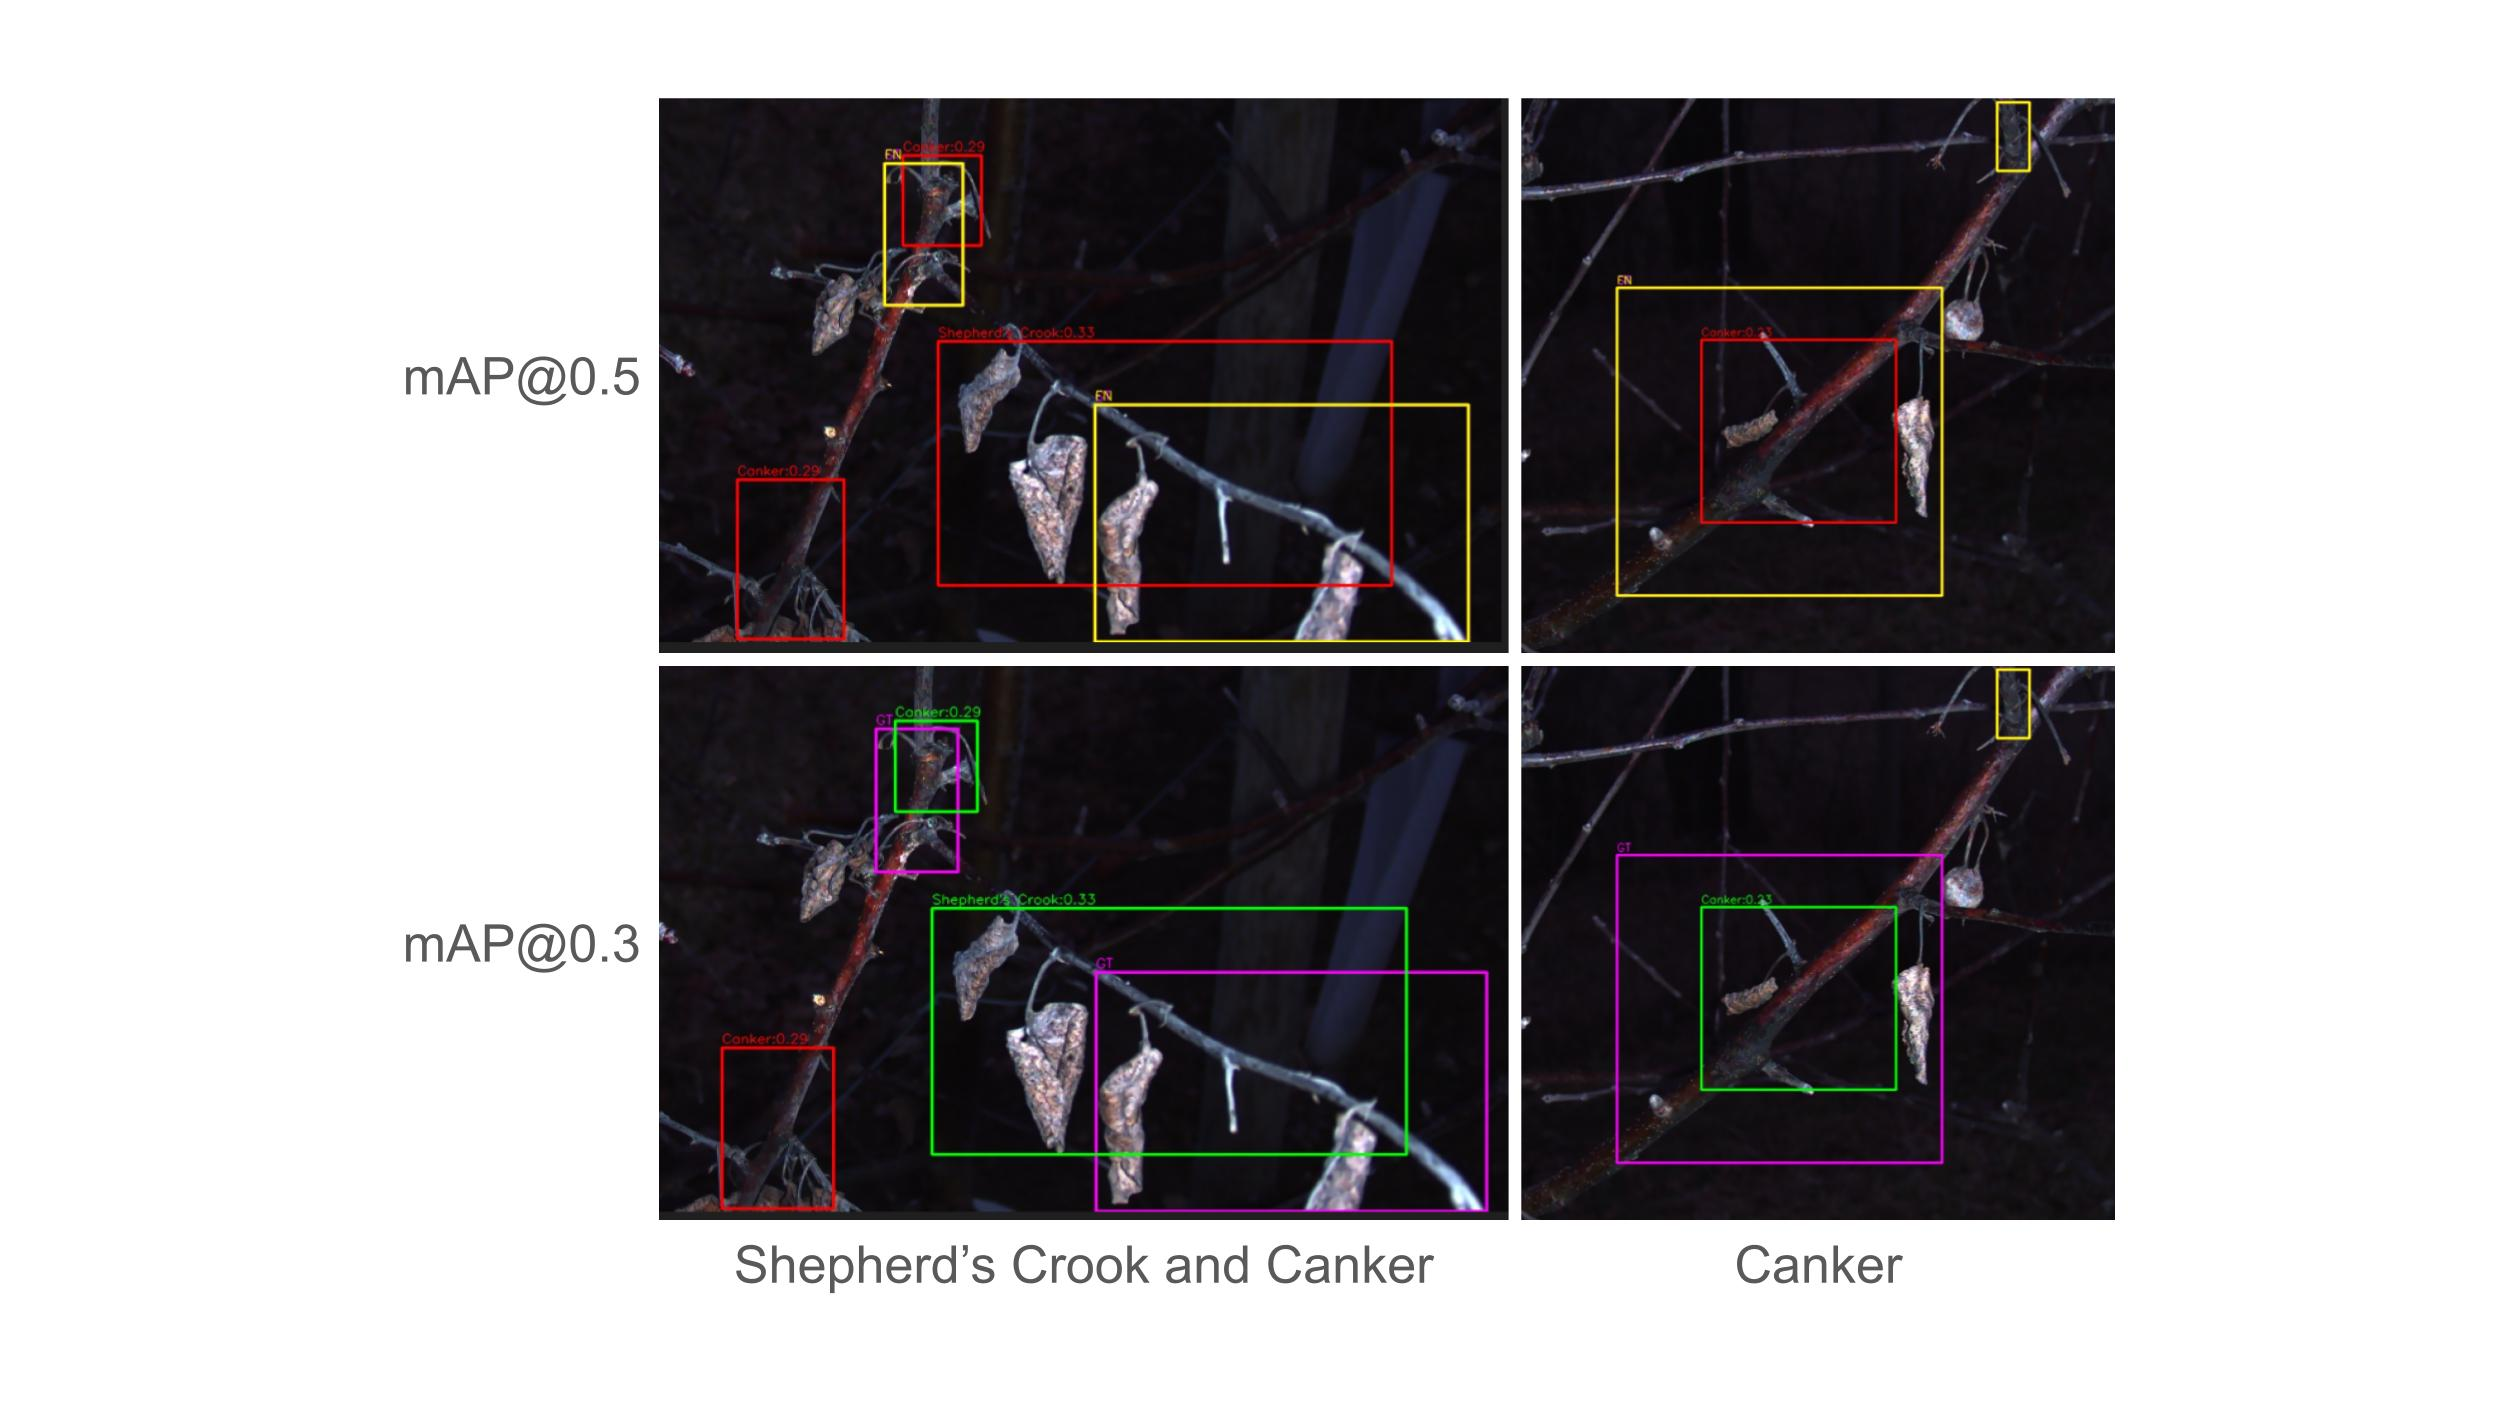
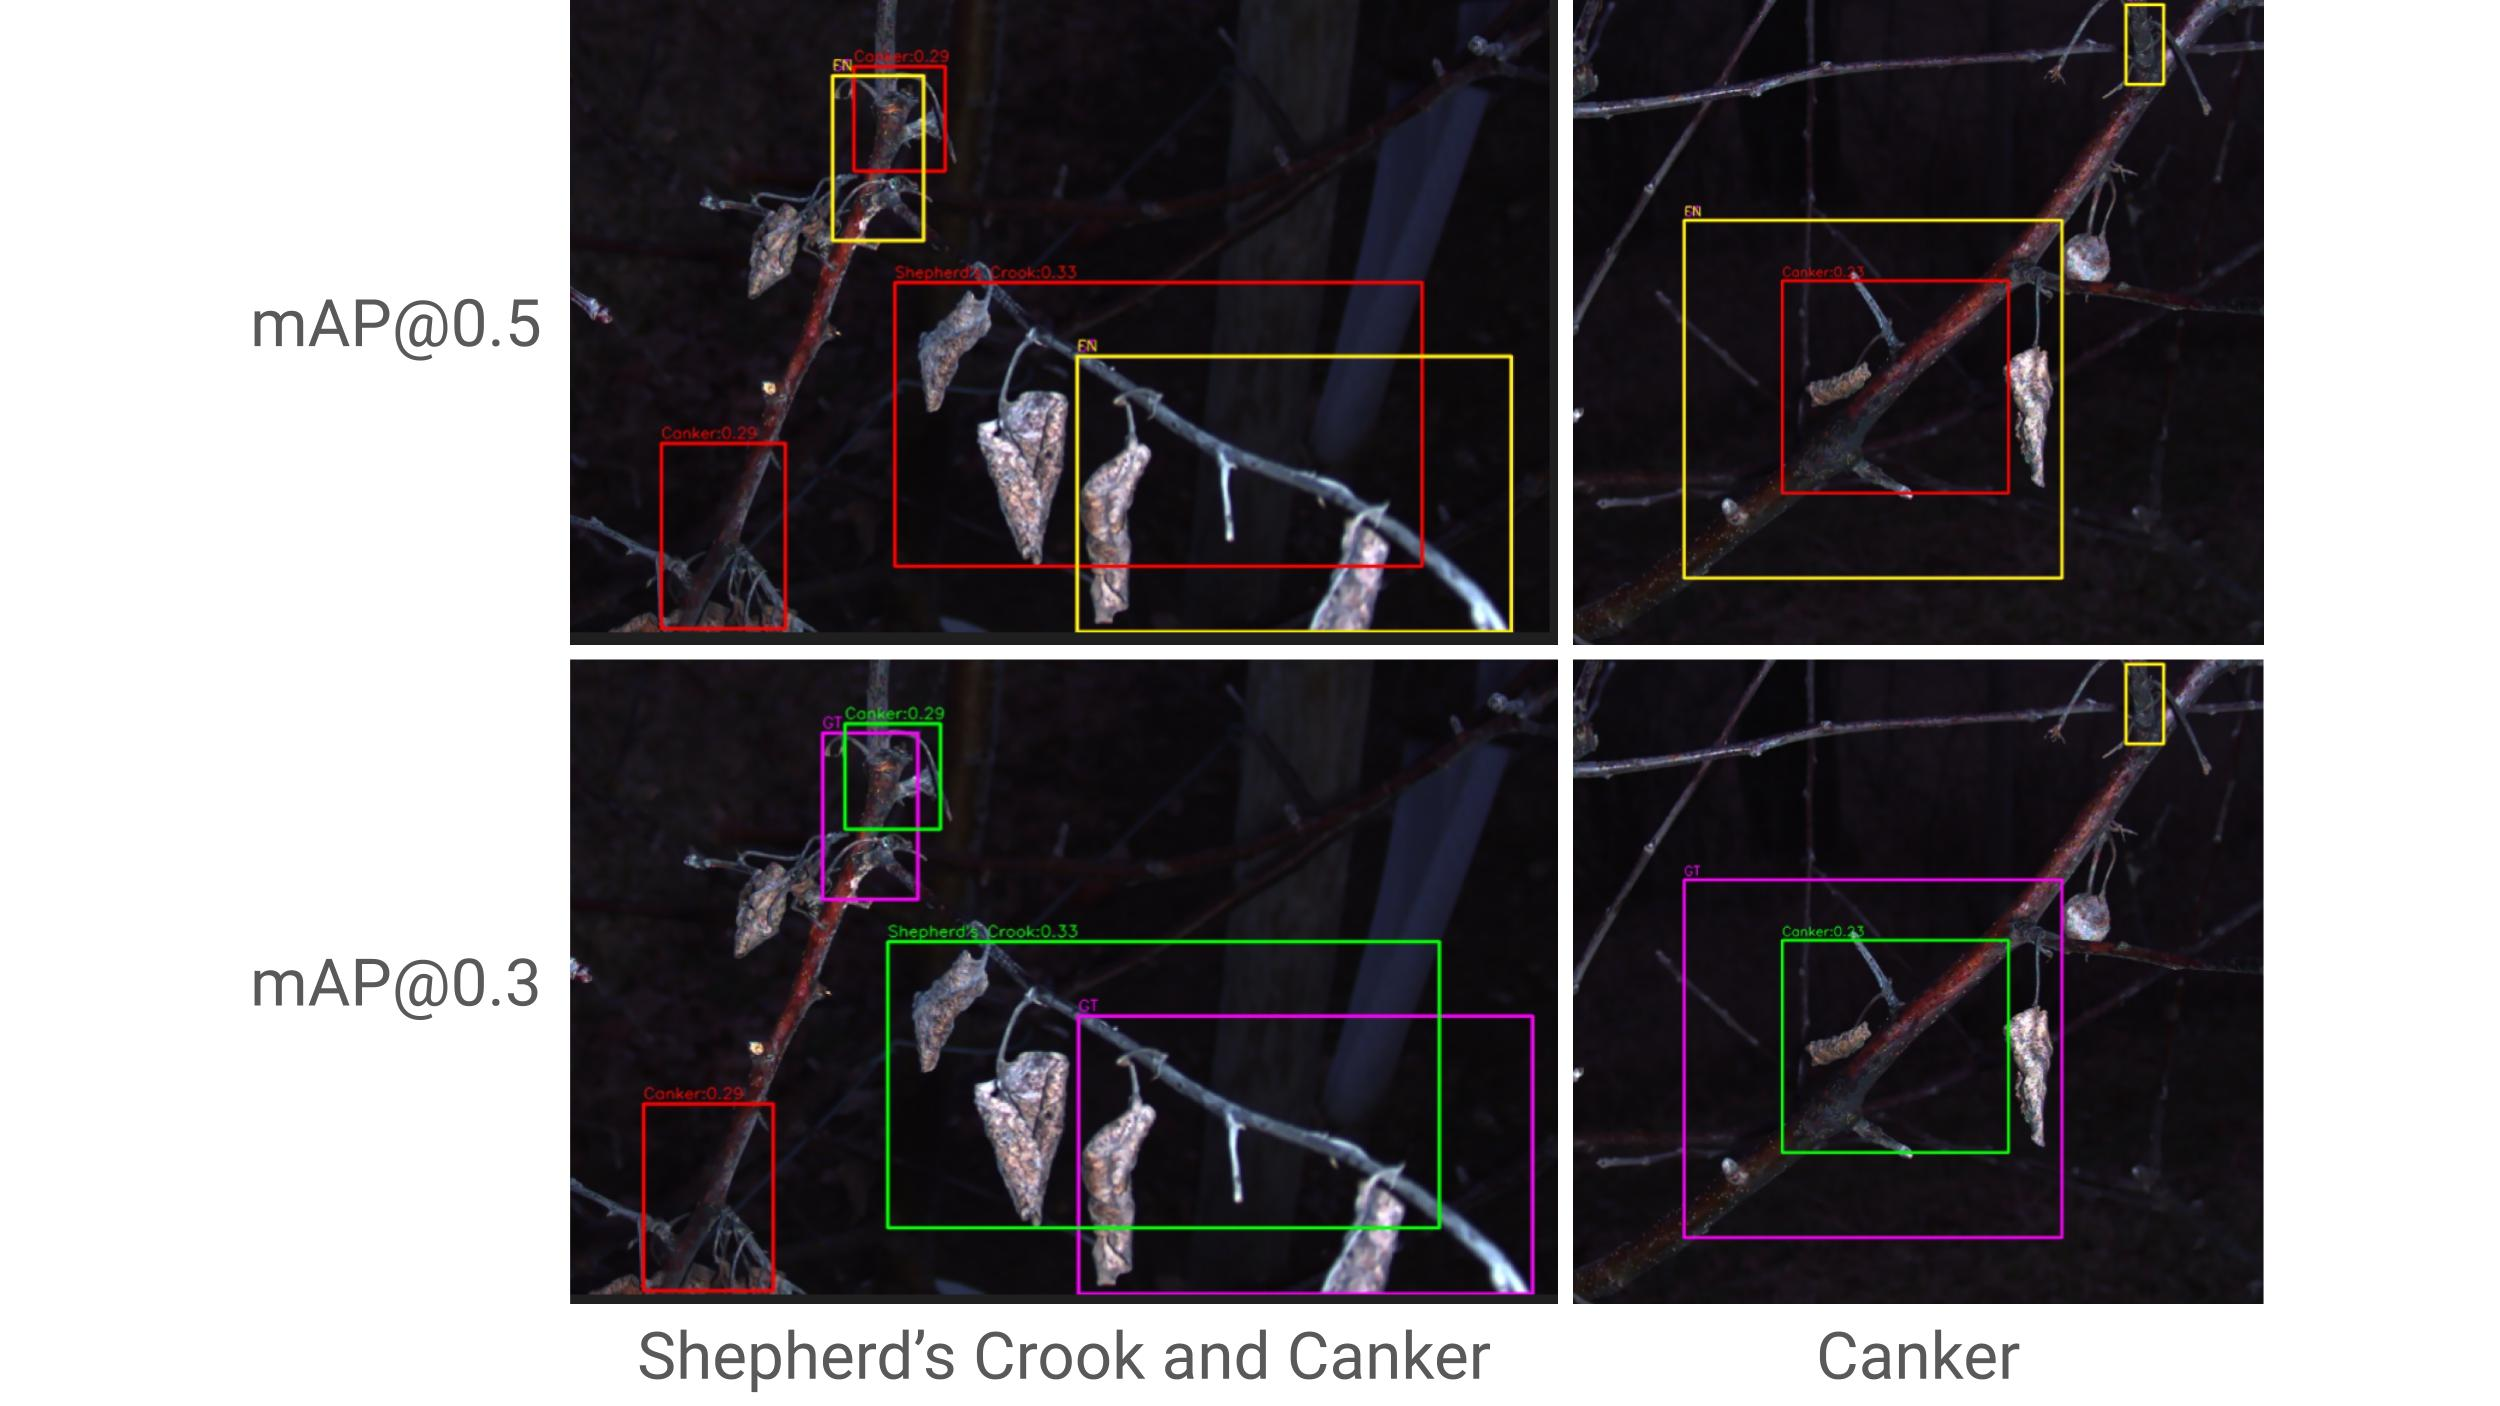
Updated figs text sizes and fonts.

diff --git a/thesis-dataset.tex b/thesis-dataset.tex
@@ -37,7 +37,7 @@ majority of dataset collection.
 
 \begin{figure}[h]
     \centering
-    \includegraphics[width=0.85\linewidth, trim={0 100pt 0 100pt},
+    \includegraphics[width=0.95\linewidth, trim={0 100pt 0 100pt},
         clip]{figs/camera_rig_exploded.jpg}
     \caption{Exploded view of the multi-modal camera rig showing
              the placement and mounting of each sensor.}
@@ -205,7 +205,7 @@ required for symptom detection is unnecessary.
 
 \begin{figure}[h]
     \centering
-    \includegraphics[width=0.85\linewidth, trim={0 100pt 0 100pt}, clip]{figs/all_img_comparison.jpg}
+    \includegraphics[width=0.95\linewidth, trim={0 100pt 0 100pt}, clip]{figs/all_img_comparison.jpg}
     \caption{The same fire blight canker viewed by each camera on the
              rig, at nearly the same position.
              \textit{From left to right:} the flash stereo RGB camera
@@ -274,14 +274,19 @@ and NIR frames.
 
 \begin{figure}[h]
     \centering
-    \includegraphics[width=0.85\linewidth, trim={0 98pt 0 98pt},
-        clip]{figs/v2_camera_rig.jpg}
-    \caption{The revised, front-loaded camera rig design, shown as a
-             CAD model (left) and the assembled hardware (right).
-             Sliding mounts lock each camera in place for quick
-             swaps in the field, and the inter-camera spacing is
-             reduced relative to the initial design to increase
-             field-of-view overlap.}
+    \includegraphics[width=0.95\linewidth]{figs/v1_v2_camera_rig.jpg}
+    \caption{The initial, back-loaded camera rig design (Version 1,
+             top) and the revised, front-loaded design (Version 2,
+             bottom), each shown as an isometric CAD model, a
+             side-profile CAD model, and the assembled hardware.
+             Between Version 1 and Version 2, the flash stereo Firefly
+             (gold, top, with its two imagers and central flash) and
+             Ximea NIR (blue) mounts were reworked for front-loading
+             and sliding locks were added for quick camera swaps in
+             the field, and the spacing between the Firefly and Ximea
+             cameras was reduced to increase field-of-view overlap;
+             the ZED2i (black, bottom) remained mounted beneath both
+             versions.}
     \label{figRigEvolution}
 \end{figure}
 
@@ -356,8 +361,7 @@ their content can be checked at a glance.
 
 \begin{figure}[h]
     \centering
-    \includegraphics[width=0.85\linewidth, trim={111pt 0 111pt 0},
-        clip]{figs/v3_gui.jpg}
+    \includegraphics[width=0.95\linewidth]{figs/v3_gui.png}
     \caption{The final handheld capture interface, with large START
              and RECORD buttons, a readable status log, a slider
              column for flash duration, frame rate, Firefly
@@ -466,6 +470,25 @@ time.
     }
 \end{table}
 
+\begin{figure}[h]
+    \centering
+    \includegraphics[width=0.90\textwidth, trim={0 225pt 0 225pt}, clip]{figs/field_collection.jpg}
+    \includegraphics[width=0.90\textwidth, trim={0 225pt 0 225pt}, clip]{figs/field_trees.jpg}
+    \caption{The three orchards used in this work.
+             \textit{From left to right:} the severe, high-density
+             commercial site near Pittsburgh, Pennsylvania; the mild,
+             free-standing research block at the Alson H. Smith Jr.
+             Agricultural Research and Extension Center in Frederick
+             County, Virginia; and the moderate-severity, held-out
+             test orchard at the Penn State Fruit Research and
+             Extension Center in Adams County, Pennsylvania.
+             \textit{Top:} aerial maps of each block, with collection
+             points marked in red.
+             \textit{Bottom:} representative sample trees from each
+             site.}
+    \label{figFieldComparison}
+\end{figure}
+
 The third orchard, at the Penn State Fruit Research and Extension
 Center in Adams County, Pennsylvania, was held out entirely from the
 detector dataset and used only to test the complete inspection
@@ -481,25 +504,6 @@ Each next-best-view planner variant was evaluated on the same set of
 Because that evaluation is conducted per tree rather than per frame,
 raw image counts are less meaningful for this site and are deferred
 to Chapter~\ref{chapErwin}.
-
-\begin{figure}[h]
-    \centering
-    \includegraphics[width=0.85\textwidth, trim={0 225pt 0 225pt}, clip]{figs/field_collection.jpg}
-    \includegraphics[width=0.85\textwidth, trim={0 225pt 0 225pt}, clip]{figs/field_trees.jpg}
-    \caption{The three orchards used in this work.
-             \textit{From left to right:} the severe, high-density
-             commercial site near Pittsburgh, Pennsylvania; the mild,
-             free-standing research block at the Alson H. Smith Jr.
-             Agricultural Research and Extension Center in Frederick
-             County, Virginia; and the moderate-severity, held-out
-             test orchard at the Penn State Fruit Research and
-             Extension Center in Adams County, Pennsylvania.
-             \textit{Top:} aerial maps of each block, with collection
-             points marked in red.
-             \textit{Bottom:} representative sample trees from each
-             site.}
-    \label{figFieldComparison}
-\end{figure}
 
 \section{Dataset Description} \label{secDatasetDescription}
 
@@ -1184,8 +1188,7 @@ models), which sets the detection threshold used when these per-view
 predictions are fused into the semantic map in Chapter~\ref{chapNBV}.
 
 Figure~\ref{figPRCurves} shows the precision--recall curves for the two
-detectors, and Figure~\ref{figDetectionExamples} presents qualitative
-detections on test images from both modalities.
+detectors.
 
 \begin{figure}[h]
     \centering
@@ -1196,18 +1199,18 @@ detections on test images from both modalities.
     \label{figPRCurves}
 \end{figure}
 
-\begin{figure}[h]
-    \centering
-    \IfFileExists{figs/detection_examples.jpg}{%
-        \includegraphics[width=0.85\linewidth]{figs/detection_examples.jpg}}{%
-        \fbox{\parbox[c][0.28\linewidth][c]{0.95\linewidth}{%
-            \centering\ttfamily\small figs/detection\_examples.jpg\\[2pt](to be added)}}}
-    \caption{Qualitative detections on test images, with the flash RGB
-             detector and the registered NIR detector shown side by
-             side. Predicted boxes are labeled with class and
-             confidence.}
-    \label{figDetectionExamples}
-\end{figure}
+% \begin{figure}[h]
+%     \centering
+%     \IfFileExists{figs/detection_examples.jpg}{%
+%         \includegraphics[width=0.85\linewidth]{figs/detection_examples.jpg}}{%
+%         \fbox{\parbox[c][0.28\linewidth][c]{0.95\linewidth}{%
+%             \centering\ttfamily\small figs/detection\_examples.jpg\\[2pt](to be added)}}}
+%     \caption{Qualitative detections on test images, with the flash RGB
+%              detector and the registered NIR detector shown side by
+%              side. Predicted boxes are labeled with class and
+%              confidence.}
+%     \label{figDetectionExamples}
+% \end{figure}
 
 \subsection{Failure Mode Analysis} \label{secFailureModes}
 
@@ -1216,7 +1219,7 @@ detector is worth examining, because it exposes a limitation of
 standard detection metrics on this kind of data and motivates the
 mapping-based approach of the following chapters.
 The issue is that cankers and shepherd's crooks have no well-defined
-spatial extent: a canker fades gradually into healthy bark with no
+spatial extent: a canker often fades gradually into healthy bark with no
 crisp boundary, and the lower end of a shepherd's crook blends into
 the stem below it.
 Annotators must nonetheless commit to a specific box, and two
@@ -1230,19 +1233,21 @@ tissue.
 
 \begin{figure}[h]
     \centering
-    \includegraphics[width=0.95\linewidth, trim={400pt 0 200pt 0}, clip]{figs/map_05_03_fns.jpg}
+    \includegraphics[width=0.95\linewidth, trim={200pt 0 0 0}, clip]{figs/map_05_03_fns.jpg}
     \caption{False negatives arising from ambiguous symptom
-             boundaries. Top row: under the standard IoU~$\geq 0.5$
-             matching rule, the detector's predictions (red, with
-             confidence) correctly land on diseased branches, but
-             their bounding boxes do not overlap the ground-truth
-             boxes (yellow) closely enough, so the ground truth is
-             scored as a false negative (``FN'') and the prediction as
-             a false positive. Bottom row: the same predictions
-             (green) and ground-truth boxes (magenta) at a relaxed
-             IoU~$\geq 0.3$, shown purely to illustrate that the
-             predictions are spatially close to the lesion rather than
-             incorrect, not as an alternative operating threshold.}
+             boundaries. A prediction and its corresponding
+             ground-truth box are colored red and yellow,
+             respectively, when unmatched, and green and magenta,
+             respectively, once matched. Top row: under the standard
+             IoU~$\geq 0.5$ matching rule, the detector's predictions
+             (red, with confidence) correctly land on diseased
+             branches, but their bounding boxes do not overlap the
+             ground-truth boxes (yellow) closely enough, so the ground
+             truth is scored as a false negative (``FN'') and the
+             prediction as a false positive. Bottom row: the same
+             boxes become true positives (green predictions, magenta
+             ground truth) once the matching threshold is relaxed to
+             IoU~$\geq 0.3$.}
     \label{figFalseNegatives}
 \end{figure}
 

diff --git a/thesis-background.tex b/thesis-background.tex
@@ -42,7 +42,7 @@ This principle motivates our approach to fire blight detection: rather than rely
 
 \begin{figure}[h]
     \centering
-    \includegraphics[width=0.85\linewidth, trim={0 150pt 0 150pt}, clip]{figs/active_perception_concept.jpg}
+    \includegraphics[width=0.95\linewidth, trim={0 150pt 0 150pt}, clip]{figs/active_perception_concept.jpg}
     \caption{Motivation for active perception in orchard disease detection. \textit{Left:} a fixed camera cannot see past an occluding branch, leaving the symptomatic target undetected. \textit{Right:} a camera mounted on a two-degree-of-freedom arm can reposition past the obstruction, bringing the previously hidden target into view.}
     \label{figActivePerception}
 \end{figure}
